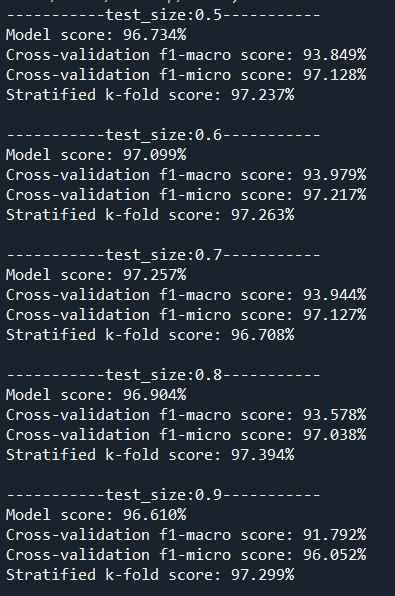
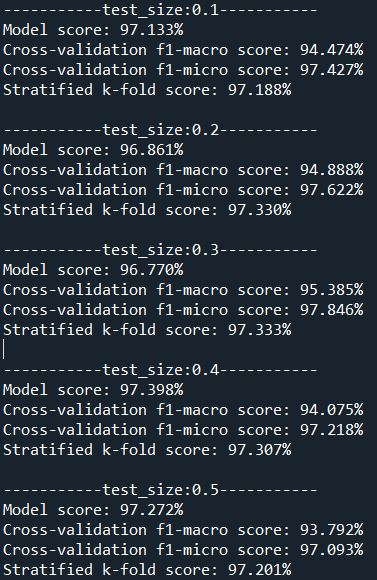
Prije puta

diff --git a/spaCy/testing.py b/spaCy/testing.py
@@ -8,7 +8,7 @@ Created on Sun Feb  7 20:06:27 2021
 import pandas as pd
 import spacy
 import numpy as np
-
+import matplotlib.pyplot as plt
 
 data = pd.read_csv("spam_data.csv")
 
@@ -21,6 +21,7 @@ with nlp.disable_pipes():
 from sklearn.svm import LinearSVC
 from sklearn.linear_model import LogisticRegression
 from sklearn.ensemble import RandomForestClassifier
+from sklearn.neural_network import MLPClassifier
 
 # Model evaluation
 from sklearn.model_selection import StratifiedKFold
@@ -35,13 +36,39 @@ X_train, X_test, y_train, y_test = train_test_split(X, y, test_size=0.3, random_
 y_train.reset_index(drop=True,inplace=True)
 
 
-svc = LinearSVC(random_state=388, dual=False, max_iter=10000).fit(X_train,y_train)
+# svc = LinearSVC(random_state=388, dual=False, max_iter=10000).fit(X_train,y_train)
 
-# logreg = LogisticRegression(solver='liblinear',random_state=388).fit(X_train,y_train)
+# logreg = LogisticRegression().fit(X_train,y_train)
 
 # rfc = RandomForestClassifier().fit(X_train,y_train)
-model=svc
 
+# models=[svc,logreg,rfc]
+
+mlp = MLPClassifier(max_iter=100).fit(X_train,y_train)
+
+parameter_space = {
+    'hidden_layer_sizes': [(50,50,50), (50,100,50), (100,)],
+    'activation': ['tanh', 'relu'],
+    'solver': ['sgd', 'adam'],
+    'alpha': [0.0001, 0.05],
+    'learning_rate': ['constant','adaptive'],
+}
+
+from sklearn.model_selection import GridSearchCV
+
+clf = GridSearchCV(mlp, parameter_space, n_jobs=-1, cv=3)
+clf.fit(X_train, y_train)
+
+# Best paramete set
+print('Best parameters found:\n', clf.best_params_)
+
+# All results
+means = clf.cv_results_['mean_test_score']
+stds = clf.cv_results_['std_test_score']
+for mean, std, params in zip(means, stds, clf.cv_results_['params']):
+    print("%0.3f (+/-%0.03f) for %r" % (mean, std * 2, params))
+
+model=clf
 print(f"------------Model: {model}------------")
 print(f"Model score: {model.score(X_test,y_test)*100:.3f}%")
 
@@ -63,4 +90,6 @@ cv_scores_micro = cross_val_score(model, X, y, cv=skf_splits, scoring='f1_micro'
 print(f"Cross-validation f1-macro score: {np.mean(cv_scores_macro) * 100:.3f}%", )
 print(f"Cross-validation f1-micro score: {np.mean(cv_scores_micro) * 100:.3f}%", )
 print(f"Stratified k-fold score: {np.mean(skf_scores) * 100:.3f}%\n", )
-
+plt.figure()
+plt.plot(model.loss_curve_)
+plt.show()

diff --git a/preprocessing.py b/preprocessing.py
@@ -3,7 +3,6 @@ import pandas as pd
 import nltk
 import sys
 import sklearn
-from sklearn.model_selection import train_test_split
 from sklearn.preprocessing import LabelEncoder
 nltk.download('stopwords')
 from nltk.corpus import stopwords
@@ -77,5 +76,41 @@ np.random.shuffle(messages)
 # find_features za svaki SMS
 feature_sets = [(find_features(text, word_features), label) for (text, label) in messages]
 
+
+X=feature_sets
+
 #train test split
-training, testing = train_test_split(feature_sets, test_size=0.25, random_state = seed)
+
+from sklearn.model_selection import StratifiedKFold
+from sklearn.model_selection import cross_val_score
+from sklearn.model_selection import train_test_split
+from sklearn.svm import LinearSVC
+
+
+X_train, X_test, y_train, y_test = train_test_split(X, y, test_size=0.25, random_state = seed)
+
+svc = LinearSVC(random_state=388, dual=False, max_iter=10000)
+svc.fit(X_train,y_train)
+
+print(f"Model score: {svc.score(X_test,y_test)*100:.3f}%")
+
+skf = StratifiedKFold(n_splits=10)
+skf_splits = skf.get_n_splits(X_train, y_train)
+
+skf_scores=[]
+
+
+for train_index, test_index in skf.split(X_train, y_train):
+    X_train_fold , X_test_fold = X_train[train_index], X_train[test_index]
+    y_train_fold, y_test_fold = y_train[train_index], y_train[test_index]
+    svc.fit(X_train_fold, y_train_fold) 
+    skf_scores.append(svc.score(X_test_fold,y_test_fold))
+
+cv_scores_macro = cross_val_score(svc, X, y, cv=skf_splits, scoring='f1_macro')
+cv_scores_micro = cross_val_score(svc, X, y, cv=skf_splits, scoring='f1_micro')
+
+print(f"Cross-validation f1-macro score: {np.mean(cv_scores_macro) * 100:.3f}%", )
+print(f"Cross-validation f1-micro score: {np.mean(cv_scores_micro) * 100:.3f}%", )
+print(f"Stratified k-fold score: {np.mean(skf_scores) * 100:.3f}%\n", )
+
+

diff --git a/spaCy/spam_detection.py b/spaCy/spam_detection.py
@@ -20,10 +20,10 @@ with nlp.disable_pipes():
 from sklearn.model_selection import train_test_split
 
 X_train, X_test, y_train, y_test = train_test_split(doc_vectors, spam.Category,
-                                                    stratify=spam.Category, test_size=0.6, random_state=1)
+                                                    stratify=spam.Category, test_size=0.8, random_state=388)
 
 from sklearn.svm import LinearSVC
 
-svc = LinearSVC(random_state=1, dual=False, max_iter=10000)
+svc = LinearSVC(random_state=388, dual=False, max_iter=10000)
 svc.fit(X_train, y_train)
 print(f"Accuracy: {svc.score(X_test, y_test) * 100:.3f}%", )
